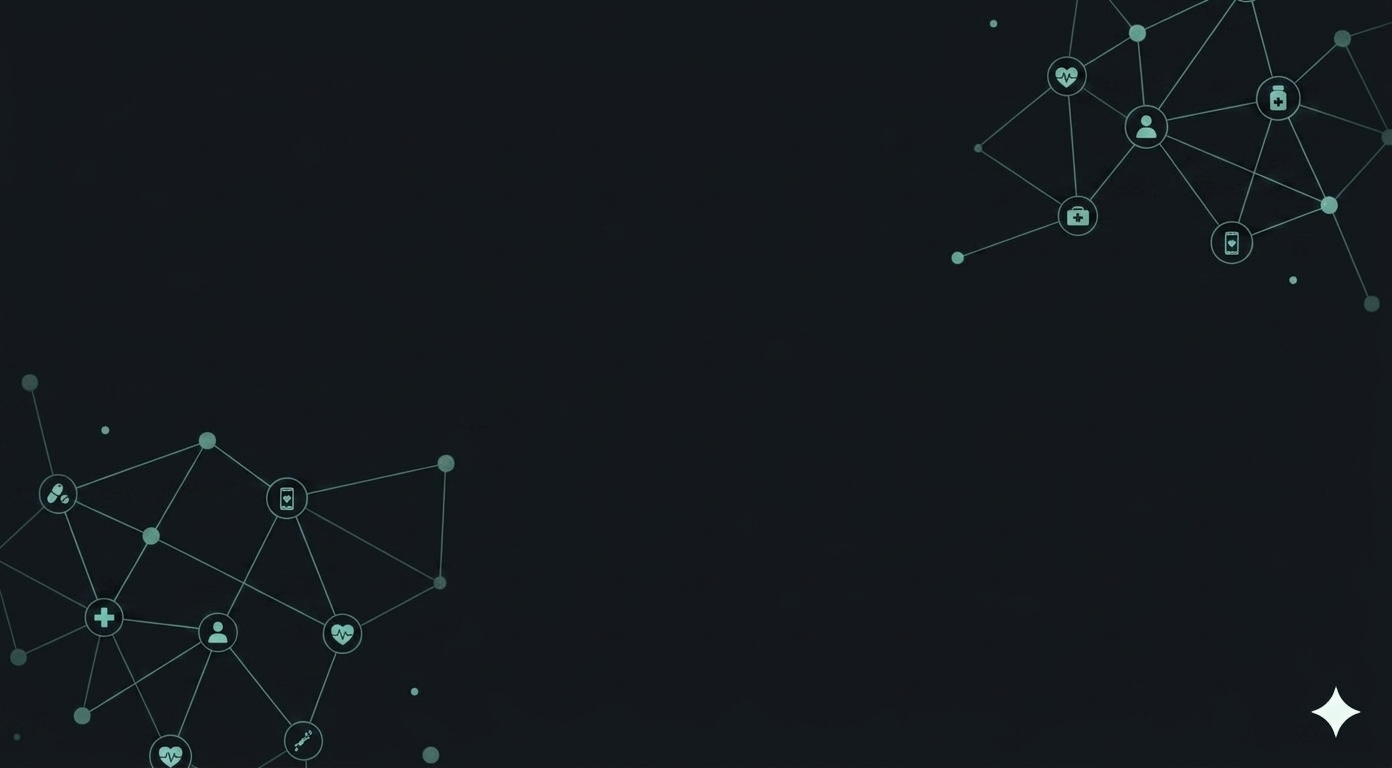
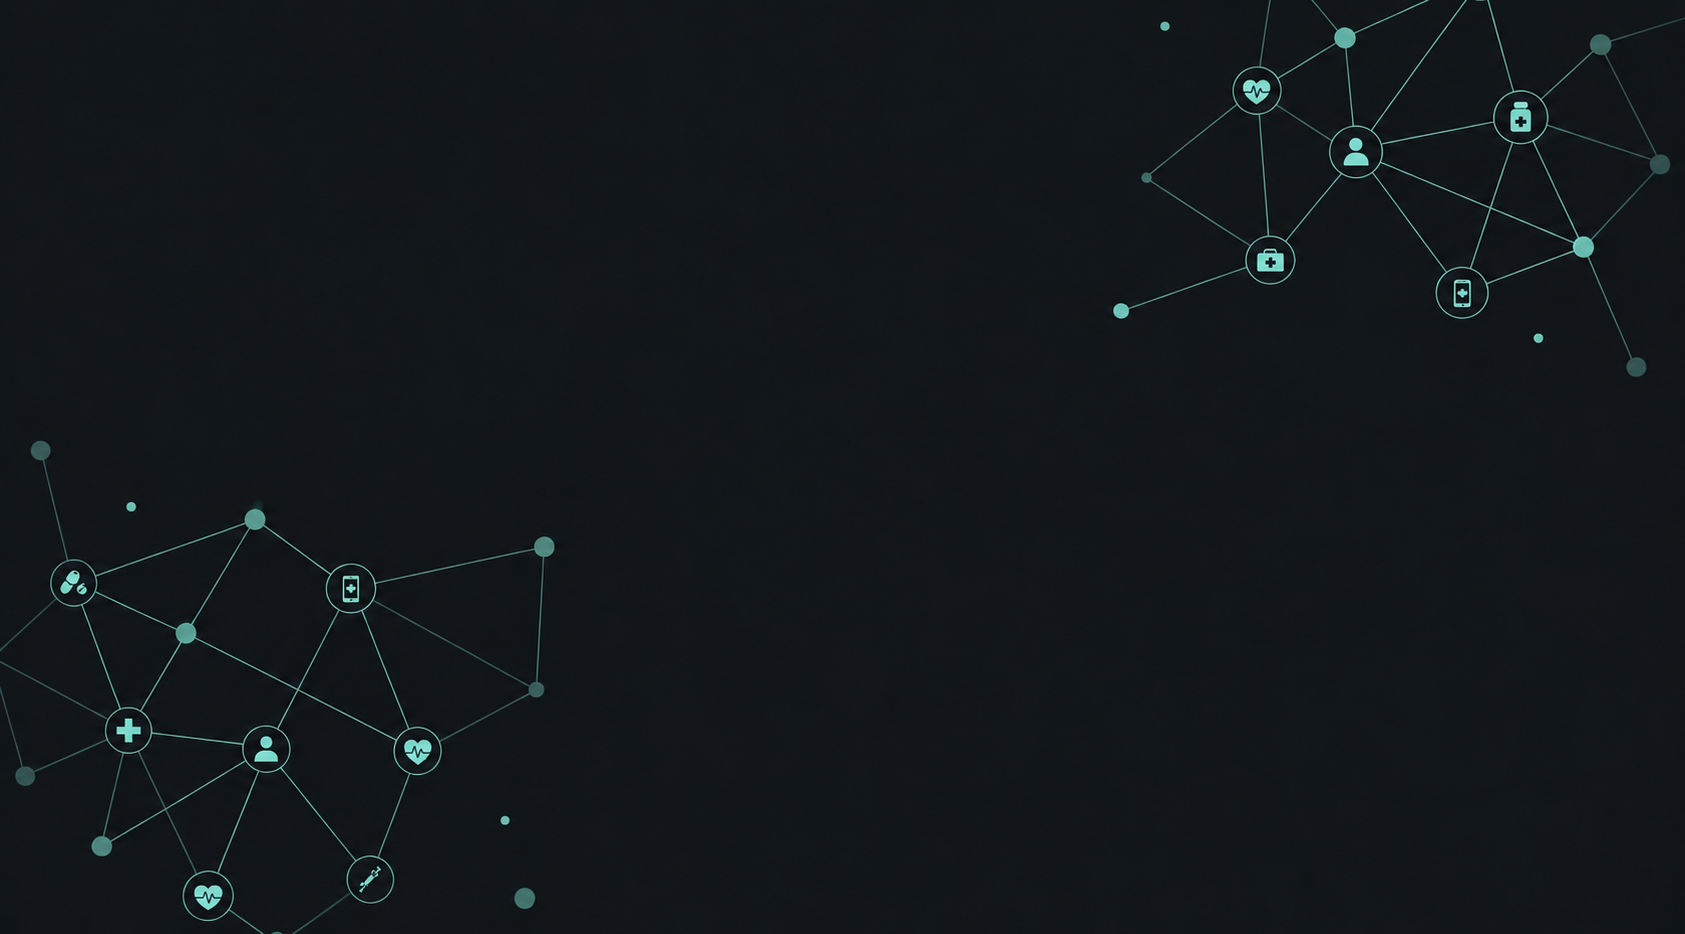
feat: Enhance payment and scheduling features with improved state management and API integration

diff --git a/frontend/src/app/(dashboards)/nutritionist/marketplace-plans/page.tsx b/frontend/src/app/(dashboards)/nutritionist/marketplace-plans/page.tsx
@@ -218,7 +218,7 @@ export default function MarketplacePlansPage() {
             <Input
               type="search"
               placeholder="Search plans..."
-              className="pl-8 bg-background border-border"
+              className="pl-8 h-10 bg-background border-border focus-visible:ring-ring transition-all duration-200"
               value={search}
               onChange={(e) => setSearch(e.target.value)}
             />
@@ -306,7 +306,7 @@ export default function MarketplacePlansPage() {
                     value={planData.title}
                     onChange={(e) => setPlanData({...planData, title: e.target.value})}
                     placeholder="e.g. 30-Day Mediterranean Transformation" 
-                    className="h-11"
+                    className="h-11 bg-background border-border focus-visible:ring-ring transition-all duration-200"
                   />
                 </div>
                 <div className="space-y-2 md:col-span-2">
@@ -316,7 +316,7 @@ export default function MarketplacePlansPage() {
                     value={planData.description}
                     onChange={(e) => setPlanData({...planData, description: e.target.value})}
                     placeholder="Short plan overview for reviewers"
-                    className="h-11"
+                    className="h-11 bg-background border-border focus-visible:ring-ring transition-all duration-200"
                   />
                 </div>
                 <div className="space-y-2">
@@ -327,7 +327,7 @@ export default function MarketplacePlansPage() {
                     min={1}
                     value={planData.duration}
                     onChange={(e) => setPlanData({...planData, duration: parseInt(e.target.value) || 7})}
-                    className="h-11"
+                    className="h-11 bg-background border-border focus-visible:ring-ring transition-all duration-200"
                   />
                 </div>
                 <div className="space-y-2 md:col-span-1">
@@ -341,7 +341,7 @@ export default function MarketplacePlansPage() {
                       min={0}
                       value={planData.price}
                       onChange={(e) => setPlanData({...planData, price: parseFloat(e.target.value) || 0})}
-                      className="pl-7 h-11 border-primary/30 focus-visible:ring-ring"
+                      className="pl-7 h-11 bg-background border-border focus-visible:ring-ring transition-all duration-200"
                     />
                   </div>
                   <p className="text-xs text-muted-foreground mt-1.5">Set to 0 for a free plan.</p>
@@ -383,7 +383,7 @@ export default function MarketplacePlansPage() {
                           id="cover-image"
                           type="file"
                           accept="image/*"
-                          className="h-11 cursor-pointer file:mr-4 file:rounded-md file:border-0 file:bg-primary file:px-3 file:py-1.5 file:text-sm file:font-medium file:text-primary-foreground"
+                          className="h-11 bg-background border-border cursor-pointer file:mr-4 file:rounded-md file:border-0 file:bg-primary file:px-3 file:py-1.5 file:text-sm file:font-medium file:text-primary-foreground focus-visible:ring-ring transition-all duration-200"
                           onChange={(e) => {
                             const file = e.target.files?.[0] ?? null;
                             if (file && file.size > 5 * 1024 * 1024) {
@@ -455,7 +455,7 @@ export default function MarketplacePlansPage() {
                                       ),
                                     }))
                                   }
-                                  className="h-8 text-sm bg-background"
+                                  className="h-8 text-sm bg-background border-border focus-visible:ring-ring transition-all duration-200"
                                 />
                               </div>
                               <Input
@@ -473,15 +473,15 @@ export default function MarketplacePlansPage() {
                                     ),
                                   }))
                                 }
-                                className="h-8 text-sm bg-background"
+                                className="h-8 text-sm bg-background border-border focus-visible:ring-ring transition-all duration-200"
                               />
                             </div>
                             {/* Ingredients */}
                             {meal.ingredients.map((ing, ingIdx) => (
                               <div key={ingIdx} className="flex items-center gap-1.5">
-                                <Input placeholder="Ingredient" value={ing.name} onChange={(e) => { const updated = [...meal.ingredients]; updated[ingIdx] = { ...updated[ingIdx], name: e.target.value }; setPlanData((prev) => ({ ...prev, days: prev.days.map((item, di) => di === index ? { ...item, [mealKey]: { ...item[mealKey], ingredients: updated } } : item) })); }} className="h-7 text-xs bg-background flex-1" />
-                                <Input placeholder="Amt" value={ing.amount} onChange={(e) => { const updated = [...meal.ingredients]; updated[ingIdx] = { ...updated[ingIdx], amount: e.target.value }; setPlanData((prev) => ({ ...prev, days: prev.days.map((item, di) => di === index ? { ...item, [mealKey]: { ...item[mealKey], ingredients: updated } } : item) })); }} className="h-7 text-xs bg-background w-16" />
-                                <Input placeholder="Unit" value={ing.unit} onChange={(e) => { const updated = [...meal.ingredients]; updated[ingIdx] = { ...updated[ingIdx], unit: e.target.value }; setPlanData((prev) => ({ ...prev, days: prev.days.map((item, di) => di === index ? { ...item, [mealKey]: { ...item[mealKey], ingredients: updated } } : item) })); }} className="h-7 text-xs bg-background w-16" />
+                                <Input placeholder="Ingredient" value={ing.name} onChange={(e) => { const updated = [...meal.ingredients]; updated[ingIdx] = { ...updated[ingIdx], name: e.target.value }; setPlanData((prev) => ({ ...prev, days: prev.days.map((item, di) => di === index ? { ...item, [mealKey]: { ...item[mealKey], ingredients: updated } } : item) })); }} className="h-7 text-xs bg-background border-border focus-visible:ring-ring flex-1 transition-all duration-200" />
+                                <Input placeholder="Amt" value={ing.amount} onChange={(e) => { const updated = [...meal.ingredients]; updated[ingIdx] = { ...updated[ingIdx], amount: e.target.value }; setPlanData((prev) => ({ ...prev, days: prev.days.map((item, di) => di === index ? { ...item, [mealKey]: { ...item[mealKey], ingredients: updated } } : item) })); }} className="h-7 text-xs bg-background border-border focus-visible:ring-ring w-16 transition-all duration-200" />
+                                <Input placeholder="Unit" value={ing.unit} onChange={(e) => { const updated = [...meal.ingredients]; updated[ingIdx] = { ...updated[ingIdx], unit: e.target.value }; setPlanData((prev) => ({ ...prev, days: prev.days.map((item, di) => di === index ? { ...item, [mealKey]: { ...item[mealKey], ingredients: updated } } : item) })); }} className="h-7 text-xs bg-background border-border focus-visible:ring-ring w-16 transition-all duration-200" />
                                 <Button type="button" variant="ghost" size="sm" className="h-7 w-7 p-0 text-destructive/60" onClick={() => { const updated = meal.ingredients.filter((_, i) => i !== ingIdx); setPlanData((prev) => ({ ...prev, days: prev.days.map((item, di) => di === index ? { ...item, [mealKey]: { ...item[mealKey], ingredients: updated } } : item) })); }}><Trash2 className="w-3 h-3" /></Button>
                               </div>
                             ))}
@@ -489,7 +489,7 @@ export default function MarketplacePlansPage() {
                               <Plus className="w-3 h-3 mr-1" /> Ingredient
                             </Button>
                             <textarea
-                              className="flex min-h-[40px] w-full rounded-lg border border-border bg-background px-3 py-1.5 text-xs"
+                              className="flex min-h-[40px] w-full rounded-lg border border-border bg-background px-3 py-1.5 text-xs focus-visible:ring-1 focus-visible:ring-ring outline-none transition-all duration-200"
                               placeholder="Notes"
                               value={meal.notes}
                               onChange={(e) =>
@@ -508,7 +508,7 @@ export default function MarketplacePlansPage() {
                       })}
 
                       <textarea
-                        className="flex min-h-[60px] w-full rounded-lg border border-border bg-background px-3 py-2 text-sm"
+                        className="flex min-h-[60px] w-full rounded-lg border border-border bg-background px-3 py-2 text-sm focus-visible:ring-1 focus-visible:ring-ring outline-none transition-all duration-200"
                         placeholder="Day instructions"
                         value={day.instructions}
                         onChange={(event) =>

diff --git a/frontend/src/app/(dashboards)/nutritionist/schedule/page.tsx b/frontend/src/app/(dashboards)/nutritionist/schedule/page.tsx
@@ -74,6 +74,9 @@ export default function SchedulePage() {
   const [availability, setAvailability] = useState<AvailabilitySlot[]>([]);
   const [holidays, setHolidays] = useState<Holiday[]>([]);
   const [isLoading, setIsLoading] = useState(true);
+  const [isSavingAvailability, setIsSavingAvailability] = useState(false);
+  const [isUpdatingZoom, setIsUpdatingZoom] = useState(false);
+  const [isAddingHoliday, setIsAddingHoliday] = useState(false);
 
   // ── Data Fetching ──────────────────────────────────────────────────
   useEffect(() => {
@@ -159,7 +162,7 @@ export default function SchedulePage() {
   const handleUpdateZoom = async (e: React.FormEvent) => {
     e.preventDefault();
     if (!selectedConsultation) return;
-
+    setIsUpdatingZoom(true);
     try {
       await patchConsultationZoomLink(selectedConsultation.id, zoomLinkInput);
       // Also update status to "notified" if currently "scheduled"
@@ -181,6 +184,8 @@ export default function SchedulePage() {
       toast.success("Zoom link updated. Client has been notified.");
     } catch {
       toast.error("Failed to update zoom link.");
+    } finally {
+      setIsUpdatingZoom(false);
     }
     setSelectedConsultation(null);
   };
@@ -188,7 +193,7 @@ export default function SchedulePage() {
   const handleAddHoliday = async (e: React.FormEvent) => {
     e.preventDefault();
     if (!holidayDateInput) return;
-
+    setIsAddingHoliday(true);
     try {
       const created = await addNutritionistHoliday(holidayDateInput);
       setHolidays([
@@ -199,6 +204,8 @@ export default function SchedulePage() {
       setHolidayDateInput("");
     } catch {
       toast.error("Failed to add holiday.");
+    } finally {
+      setIsAddingHoliday(false);
     }
   };
 
@@ -242,7 +249,9 @@ export default function SchedulePage() {
     });
   };
 
+  const [hasSaved, setHasSaved] = useState(false);
   const handleSaveAvailability = async () => {
+    setIsSavingAvailability(true);
     try {
       // Transform camelCase frontend state → snake_case API payload
       const payload: AvailabilitySlotPayload[] = availability.map((slot) => ({
@@ -252,8 +261,12 @@ export default function SchedulePage() {
       }));
       await putNutritionistAvailability(payload);
       toast.success("Availability preferences saved.");
+      setHasSaved(true);
+      setTimeout(() => setHasSaved(false), 2000);
     } catch {
       toast.error("Failed to save availability.");
+    } finally {
+      setIsSavingAvailability(false);
     }
   };
 
@@ -551,9 +564,22 @@ export default function SchedulePage() {
                   <CardFooter className="bg-muted border-t border-border rounded-b-xl py-4 flex justify-end">
                     <Button
                       onClick={handleSaveAvailability}
-                      className="shadow-sm"
+                      disabled={isSavingAvailability}
+                      className={`shadow-sm active:scale-95 transition-all duration-300 min-w-[160px] hover:shadow-md ${hasSaved ? "bg-emerald-600 hover:bg-emerald-700" : "bg-primary hover:bg-primary/90"}`}
                     >
-                      Save Restrictions
+                      {isSavingAvailability ? (
+                        <>
+                          <Loader2 className="w-4 h-4 mr-2 animate-spin" />
+                          Saving...
+                        </>
+                      ) : hasSaved ? (
+                        <>
+                          <CheckCircle className="w-4 h-4 mr-2" />
+                          Saved!
+                        </>
+                      ) : (
+                        "Save Restrictions"
+                      )}
                     </Button>
                   </CardFooter>
                 </Card>
@@ -582,12 +608,19 @@ export default function SchedulePage() {
                             }
                             className="w-full h-11 border-border focus-visible:ring-destructive"
                           />
-                          <Button
+                           <Button
                             type="submit"
                             variant="outline"
-                            className="h-11 border-destructive/20 text-destructive hover:bg-destructive/10 px-8"
+                            disabled={isAddingHoliday}
+                            className="h-11 border-destructive/20 text-destructive hover:bg-destructive/10 px-8 active:scale-95 transition-all duration-200 min-w-[120px]"
                           >
-                            <Plus className="w-4 h-4 mr-2" /> Block
+                            {isAddingHoliday ? (
+                              <Loader2 className="w-4 h-4 animate-spin" />
+                            ) : (
+                              <>
+                                <Plus className="w-4 h-4 mr-2" /> Block
+                              </>
+                            )}
                           </Button>
                         </div>
                       </div>
@@ -701,8 +734,19 @@ export default function SchedulePage() {
                         placeholder="https://zoom.us/j/..."
                       />
                     </div>
-                    <Button type="submit" className="w-full mt-2">
-                      Update & Notify Client
+                     <Button
+                      type="submit"
+                      disabled={isUpdatingZoom}
+                      className="w-full mt-2 active:scale-95 transition-all duration-200"
+                    >
+                      {isUpdatingZoom ? (
+                        <>
+                          <Loader2 className="w-4 h-4 mr-2 animate-spin" />
+                          Updating...
+                        </>
+                      ) : (
+                        "Update & Notify Client"
+                      )}
                     </Button>
                   </div>
                 </form>

diff --git a/frontend/src/components/scheduleconsultation.tsx b/frontend/src/components/scheduleconsultation.tsx
@@ -20,6 +20,7 @@ import {
   getNutritionistAvailability,
   getNutritionistProfile,
   MarketplaceNutritionistProfile,
+  resolveApiUrl,
 } from "@/lib/api";
 import { buildPaymentUrl } from "@/lib/payment";
 import NutritionistProfileModal from "./NutritionistProfileModal";
@@ -67,11 +68,7 @@ function mapNutritionistProfile(
     ].filter(Boolean) as string[],
     bio: profile.bio ?? "",
     consultation_price: Number(profile.consultation_price ?? 0),
-    profile_image: profile.profile_photo_url
-      ? profile.profile_photo_url.startsWith("http")
-        ? profile.profile_photo_url
-        : `http://127.0.0.1:8000/${profile.profile_photo_url}`
-      : "/placeholder-avatar.png",
+    profile_image: resolveApiUrl(profile.profile_photo_url) ?? "/placeholder-avatar.png",
   };
 }
 
@@ -239,6 +236,8 @@ export default function ScheduleConsultation({
     if (!selectedSlot || !nutritionist) return;
 
     setIsRedirectingToPayment(true);
+    const totalPrice = (nutritionist?.consultation_price ?? 0) + (consultationType === "plan_included" ? 50 : 0);
+
     const paymentHref = buildPaymentUrl({
       type: "consultation",
       nutritionistId: Number(nutritionist.id),
@@ -246,6 +245,7 @@ export default function ScheduleConsultation({
       startTime: selectedSlot.start_time,
       endTime: selectedSlot.end_time,
       consultationType,
+      amount: totalPrice,
     });
     router.push(paymentHref);
   };
@@ -502,7 +502,7 @@ export default function ScheduleConsultation({
                   Total Due Today
                 </span>
                 <span className="font-serif text-3xl text-foreground font-bold">
-                  ${currentNutritionist.consultation_price.toFixed(2)}
+                  ${(currentNutritionist.consultation_price + (consultationType === "plan_included" ? 50 : 0)).toFixed(2)}
                 </span>
               </div>
               <p className="text-xs text-muted-foreground text-right mt-1">

diff --git a/frontend/src/lib/payment.ts b/frontend/src/lib/payment.ts
@@ -21,6 +21,7 @@ export type ConsultationPaymentContext = {
   startTime: string;
   endTime: string;
   consultationType: ConsultationPaymentType;
+  amount?: number;
   userPlanId?: number;
   isFreeFromPlan?: boolean;
 };
@@ -64,6 +65,7 @@ export function buildPaymentUrl(context: PaymentContext): string {
     params.set("startTime", context.startTime);
     params.set("endTime", context.endTime);
     params.set("consultationType", context.consultationType);
+    if (context.amount) params.set("amount", String(context.amount));
     if (context.userPlanId) params.set("userPlanId", String(context.userPlanId));
     if (context.isFreeFromPlan) params.set("isFreeFromPlan", "true");
   }
@@ -112,6 +114,7 @@ export function parsePaymentContext(searchParams: SearchParamReader): PaymentCon
     const startTime = searchParams.get("startTime");
     const endTime = searchParams.get("endTime");
     const consultationType = searchParams.get("consultationType");
+    const amount = parsePositiveInteger(searchParams.get("amount"));
     const userPlanId = parsePositiveInteger(searchParams.get("userPlanId"));
     const isFreeFromPlan = searchParams.get("isFreeFromPlan") === "true";
 
@@ -132,6 +135,7 @@ export function parsePaymentContext(searchParams: SearchParamReader): PaymentCon
       startTime,
       endTime,
       consultationType,
+      ...(amount ? { amount } : {}),
       ...(userPlanId ? { userPlanId } : {}),
       isFreeFromPlan,
     };

diff --git a/frontend/src/components/payment.tsx b/frontend/src/components/payment.tsx
@@ -226,7 +226,7 @@ export default function SecurePayment() {
           setSummary({
             title: getConsultationTypeLabel(context.consultationType),
             provider: profile.user?.username || profile.username || "Nutritionist",
-            amount: Number(profile.consultation_price ?? 0),
+            amount: context.amount ?? Number(profile.consultation_price ?? 0),
             description: `Scheduled for ${context.appointmentDate} from ${context.startTime} to ${context.endTime}.`,
           });
           return;
@@ -300,6 +300,8 @@ export default function SecurePayment() {
           consultation_type: context.consultationType,
           user_plan_id: context.userPlanId,
           is_free_from_plan: context.isFreeFromPlan || false,
+          amount_paid: summary.amount,
+          transaction_number: generatedTransactionNumber,
         });
         setSuccessMessage("Payment confirmed. Your consultation booking has been submitted successfully.");
       }

diff --git a/frontend/src/lib/api.ts b/frontend/src/lib/api.ts
@@ -255,6 +255,8 @@ export const bookConsultation = async (payload: {
   consultation_type: "advice_only" | "plan_included";
   user_plan_id?: number;
   is_free_from_plan: boolean;
+  amount_paid?: number;
+  transaction_number?: string;
 }) => {
   const response = await api.post("client/consultations/book/", payload);
   return unwrapResponse(response.data);
